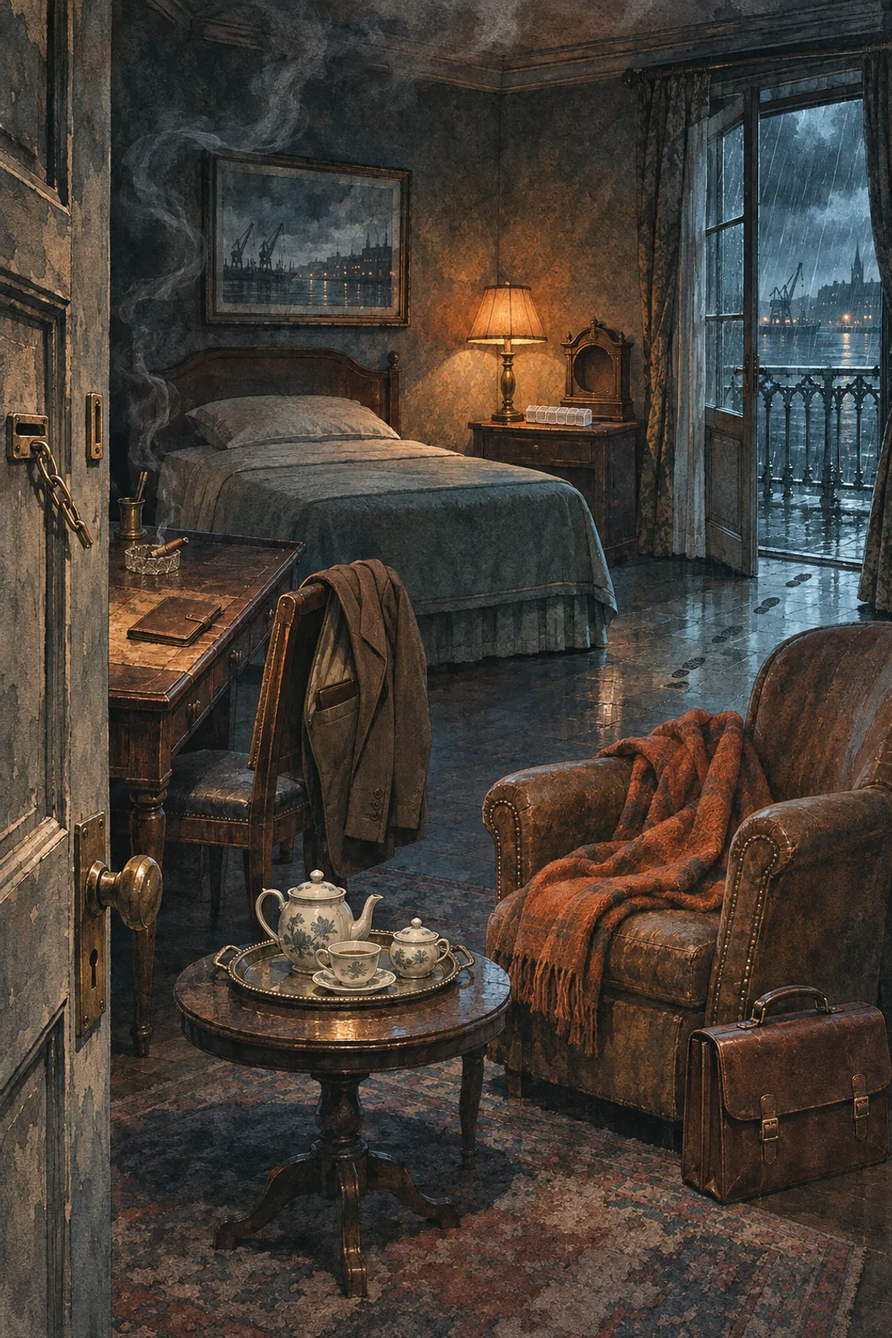
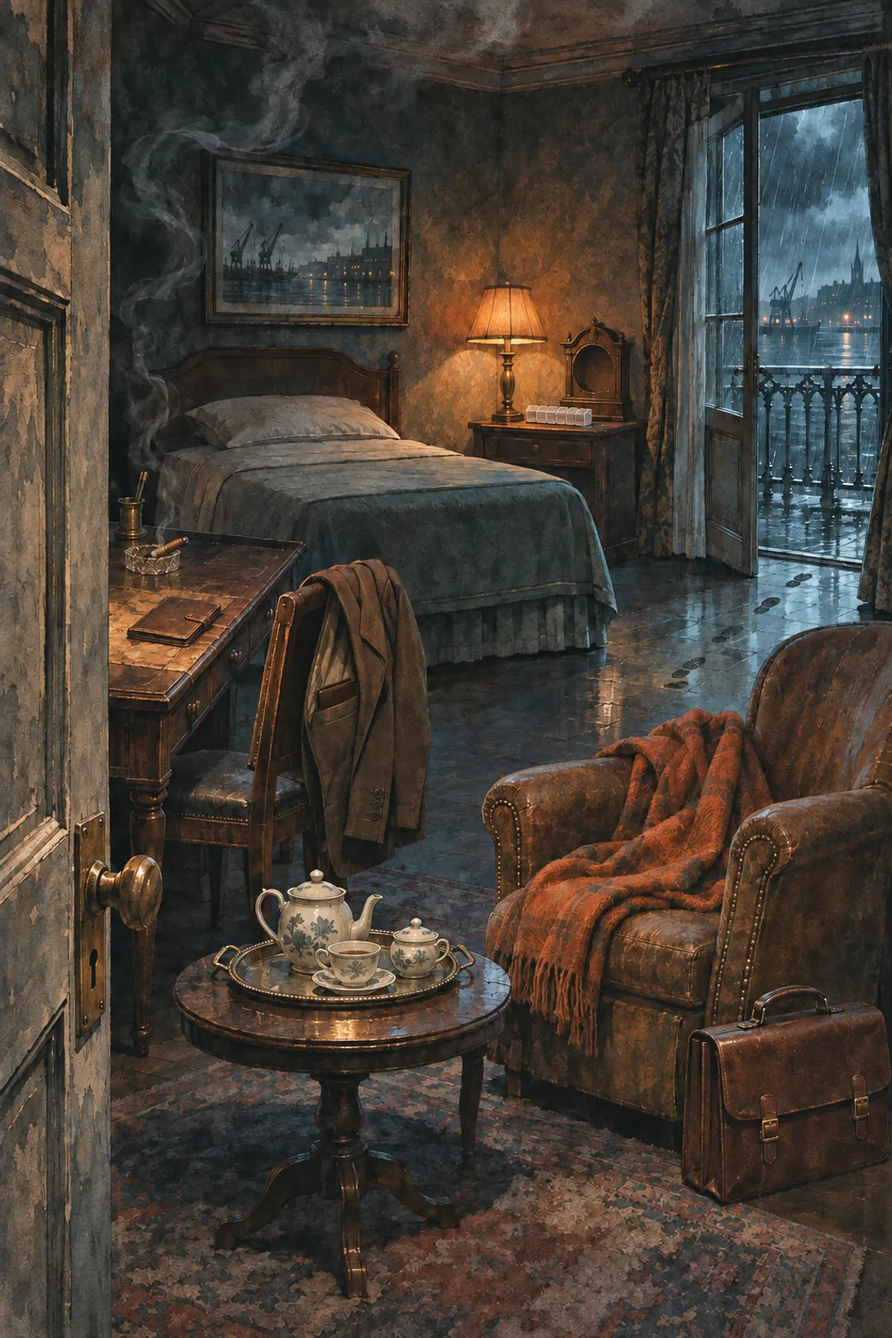
Correct room-seven door artwork and hardware height

diff --git a/art/ASSETS.md b/art/ASSETS.md
@@ -102,75 +102,75 @@
 
 Полный план до генерации: **68 оригиналов**. Источник канона — `docs/cases/case-002-room-seven.md`. Точные STYLE_CORE-промпты и референсы: [case-002-room-seven/prompts.json](case-002-room-seven/prompts.json). Порядок: локации → крупные планы → предметы/портфель/детали → портреты (neutral → отдельные правки эмоций) → реконструкция и обложка. Текста на картинках нет. Надежда в сером кардигане, нитка серая; кресло пустое, только сползший плед. Оригиналы PNG — Git LFS. Музыка общая, голос не генерируется.
 
-| Игровой файл                                  | Тип            | Размер    | Оригинал PNG                                          | Промпт / ключ            | Статус                                                                   |
-| --------------------------------------------- | -------------- | --------- | ----------------------------------------------------- | ------------------------ | ------------------------------------------------------------------------ |
-| `images/locations/l-lobby.webp`               | location       | 1080×1620 | [PNG](case-002-room-seven/l-lobby.png)                | `l-lobby`                | сгенерировано                                                            |
-| `images/locations/l-room7.webp`               | location       | 1080×1620 | [PNG](case-002-room-seven/l-room7.png)                | `l-room7`                | заглушка (переделать: убрать цепочку с двери, композиция та же)          |
-| `images/locations/l-corridor.webp`            | location       | 1080×1620 | [PNG](case-002-room-seven/l-corridor.png)             | `l-corridor`             | сгенерировано                                                            |
-| `images/closeups/h-register.webp`             | closeup        | 1024×1024 | [PNG](case-002-room-seven/h-register.png)             | `h-register`             | сгенерировано                                                            |
-| `images/closeups/h-phone.webp`                | closeup        | 1024×1024 | [PNG](case-002-room-seven/h-phone.png)                | `h-phone`                | сгенерировано                                                            |
-| `images/closeups/h-coat-rack.webp`            | closeup        | 1024×1024 | [PNG](case-002-room-seven/h-coat-rack.png)            | `h-coat-rack`            | сгенерировано                                                            |
-| `images/closeups/h-keeper-photo.webp`         | closeup        | 1024×1024 | [PNG](case-002-room-seven/h-keeper-photo.png)         | `h-keeper-photo`         | сгенерировано                                                            |
-| `images/closeups/h-armchair.webp`             | closeup        | 1024×1024 | [PNG](case-002-room-seven/h-armchair.png)             | `h-armchair`             | сгенерировано                                                            |
-| `images/closeups/h-fireplace.webp`            | closeup        | 1024×1024 | [PNG](case-002-room-seven/h-fireplace.png)            | `h-fireplace`            | сгенерировано                                                            |
-| `images/closeups/h-door-chain.webp`           | closeup        | 1024×1024 | [PNG](case-002-room-seven/h-door-chain.png)           | `h-door-chain`           | заглушка (переделать: выбитая дверь, задвижка изнутри вырвана из косяка) |
-| `images/closeups/h-tea-tray.webp`             | closeup        | 1024×1024 | [PNG](case-002-room-seven/h-tea-tray.png)             | `h-tea-tray`             | сгенерировано                                                            |
-| `images/closeups/h-nightstand.webp`           | closeup        | 1024×1024 | [PNG](case-002-room-seven/h-nightstand.png)           | `h-nightstand`           | сгенерировано                                                            |
-| `images/closeups/h-desk.webp`                 | closeup        | 1024×1024 | [PNG](case-002-room-seven/h-desk.png)                 | `h-desk`                 | сгенерировано                                                            |
-| `images/closeups/h-jacket.webp`               | closeup        | 1024×1024 | [PNG](case-002-room-seven/h-jacket.png)               | `h-jacket`               | сгенерировано                                                            |
-| `images/closeups/h-portfel.webp`              | closeup        | 1024×1024 | [PNG](case-002-room-seven/h-portfel.png)              | `h-portfel`              | сгенерировано                                                            |
-| `images/closeups/h-balcony-door.webp`         | closeup        | 1024×1024 | [PNG](case-002-room-seven/h-balcony-door.png)         | `h-balcony-door`         | сгенерировано                                                            |
-| `images/closeups/h-partition.webp`            | closeup        | 1024×1024 | [PNG](case-002-room-seven/h-partition.png)            | `h-partition`            | сгенерировано                                                            |
-| `images/closeups/h-linen-cart.webp`           | closeup        | 1024×1024 | [PNG](case-002-room-seven/h-linen-cart.png)           | `h-linen-cart`           | сгенерировано                                                            |
-| `images/closeups/h-bin.webp`                  | closeup        | 1024×1024 | [PNG](case-002-room-seven/h-bin.png)                  | `h-bin`                  | сгенерировано                                                            |
-| `images/closeups/h-window.webp`               | closeup        | 1024×1024 | [PNG](case-002-room-seven/h-window.png)               | `h-window`               | сгенерировано                                                            |
-| `images/closeups/h-door8.webp`                | closeup        | 1024×1024 | [PNG](case-002-room-seven/h-door8.png)                | `h-door8`                | сгенерировано                                                            |
-| `images/clues/c-teacup.webp`                  | clue           | 512×512   | [PNG](case-002-room-seven/c-teacup.png)               | `c-teacup`               | сгенерировано                                                            |
-| `images/clues/c-empty-case.webp`              | clue           | 512×512   | [PNG](case-002-room-seven/c-empty-case.png)           | `c-empty-case`           | сгенерировано                                                            |
-| `images/clues/c-notebook.webp`                | clue           | 512×512   | [PNG](case-002-room-seven/c-notebook.png)             | `c-notebook`             | сгенерировано                                                            |
-| `images/clues/c-wallet.webp`                  | clue           | 512×512   | [PNG](case-002-room-seven/c-wallet.png)               | `c-wallet`               | сгенерировано                                                            |
-| `images/clues/c-wet-jacket.webp`              | clue           | 512×512   | [PNG](case-002-room-seven/c-wet-jacket.png)           | `c-wet-jacket`           | сгенерировано                                                            |
-| `images/clues/c-camera.webp`                  | clue           | 512×512   | [PNG](case-002-room-seven/c-camera.png)               | `c-camera`               | сгенерировано                                                            |
-| `images/clues/c-ampoule.webp`                 | clue           | 512×512   | [PNG](case-002-room-seven/c-ampoule.png)              | `c-ampoule`              | сгенерировано                                                            |
-| `images/clues/c-chronometer.webp`             | clue           | 512×512   | [PNG](case-002-room-seven/c-chronometer.png)          | `c-chronometer`          | сгенерировано                                                            |
-| `images/clues/c-partition.webp`               | clue           | 512×512   | [PNG](case-002-room-seven/c-partition.png)            | `c-partition`            | сгенерировано                                                            |
-| `images/closeups/portfel-open.webp`           | container      | 1024×1024 | [PNG](case-002-room-seven/portfel-open.png)           | `portfel-open`           | сгенерировано                                                            |
-| `images/closeups/teacup-inspection.webp`      | inspection     | 1024×1024 | [PNG](case-002-room-seven/teacup-inspection.png)      | `teacup-inspection`      | сгенерировано                                                            |
-| `images/closeups/partition-inspection.webp`   | inspection     | 1024×1024 | [PNG](case-002-room-seven/partition-inspection.png)   | `partition-inspection`   | сгенерировано                                                            |
-| `images/closeups/chronometer-inspection.webp` | inspection     | 1024×1024 | [PNG](case-002-room-seven/chronometer-inspection.png) | `chronometer-inspection` | сгенерировано                                                            |
-| `troupe/a14-boris/neutral.webp`               | portrait       | 768×1152  | [PNG](case-002-room-seven/a14-boris-neutral.png)      | `a14-boris-neutral`      | сгенерировано                                                            |
-| `troupe/a14-boris/nervous.webp`               | portrait       | 768×1152  | [PNG](case-002-room-seven/a14-boris-nervous.png)      | `a14-boris-nervous`      | сгенерировано                                                            |
-| `troupe/a14-boris/angry.webp`                 | portrait       | 768×1152  | [PNG](case-002-room-seven/a14-boris-angry.png)        | `a14-boris-angry`        | сгенерировано                                                            |
-| `troupe/a14-boris/sad.webp`                   | portrait       | 768×1152  | [PNG](case-002-room-seven/a14-boris-sad.png)          | `a14-boris-sad`          | сгенерировано                                                            |
-| `troupe/a14-boris/smug.webp`                  | portrait       | 768×1152  | [PNG](case-002-room-seven/a14-boris-smug.png)         | `a14-boris-smug`         | сгенерировано                                                            |
-| `troupe/a14-boris/broken.webp`                | portrait       | 768×1152  | [PNG](case-002-room-seven/a14-boris-broken.png)       | `a14-boris-broken`       | сгенерировано                                                            |
-| `troupe/a11-zoya/neutral.webp`                | portrait       | 768×1152  | [PNG](case-002-room-seven/a11-zoya-neutral.png)       | `a11-zoya-neutral`       | сгенерировано                                                            |
-| `troupe/a11-zoya/nervous.webp`                | portrait       | 768×1152  | [PNG](case-002-room-seven/a11-zoya-nervous.png)       | `a11-zoya-nervous`       | сгенерировано                                                            |
-| `troupe/a11-zoya/angry.webp`                  | portrait       | 768×1152  | [PNG](case-002-room-seven/a11-zoya-angry.png)         | `a11-zoya-angry`         | сгенерировано                                                            |
-| `troupe/a11-zoya/sad.webp`                    | portrait       | 768×1152  | [PNG](case-002-room-seven/a11-zoya-sad.png)           | `a11-zoya-sad`           | сгенерировано                                                            |
-| `troupe/a11-zoya/smug.webp`                   | portrait       | 768×1152  | [PNG](case-002-room-seven/a11-zoya-smug.png)          | `a11-zoya-smug`          | сгенерировано                                                            |
-| `troupe/a11-zoya/broken.webp`                 | portrait       | 768×1152  | [PNG](case-002-room-seven/a11-zoya-broken.png)        | `a11-zoya-broken`        | сгенерировано                                                            |
-| `troupe/a08-ruslan/neutral.webp`              | portrait       | 768×1152  | [PNG](case-002-room-seven/a08-ruslan-neutral.png)     | `a08-ruslan-neutral`     | сгенерировано                                                            |
-| `troupe/a08-ruslan/nervous.webp`              | portrait       | 768×1152  | [PNG](case-002-room-seven/a08-ruslan-nervous.png)     | `a08-ruslan-nervous`     | сгенерировано                                                            |
-| `troupe/a08-ruslan/angry.webp`                | portrait       | 768×1152  | [PNG](case-002-room-seven/a08-ruslan-angry.png)       | `a08-ruslan-angry`       | сгенерировано                                                            |
-| `troupe/a08-ruslan/sad.webp`                  | portrait       | 768×1152  | [PNG](case-002-room-seven/a08-ruslan-sad.png)         | `a08-ruslan-sad`         | сгенерировано                                                            |
-| `troupe/a08-ruslan/smug.webp`                 | portrait       | 768×1152  | [PNG](case-002-room-seven/a08-ruslan-smug.png)        | `a08-ruslan-smug`        | сгенерировано                                                            |
-| `troupe/a08-ruslan/broken.webp`               | portrait       | 768×1152  | [PNG](case-002-room-seven/a08-ruslan-broken.png)      | `a08-ruslan-broken`      | сгенерировано                                                            |
-| `troupe/a13-nadia/neutral.webp`               | portrait       | 768×1152  | [PNG](case-002-room-seven/a13-nadia-neutral.png)      | `a13-nadia-neutral`      | сгенерировано                                                            |
-| `troupe/a13-nadia/nervous.webp`               | portrait       | 768×1152  | [PNG](case-002-room-seven/a13-nadia-nervous.png)      | `a13-nadia-nervous`      | сгенерировано                                                            |
-| `troupe/a13-nadia/angry.webp`                 | portrait       | 768×1152  | [PNG](case-002-room-seven/a13-nadia-angry.png)        | `a13-nadia-angry`        | сгенерировано                                                            |
-| `troupe/a13-nadia/sad.webp`                   | portrait       | 768×1152  | [PNG](case-002-room-seven/a13-nadia-sad.png)          | `a13-nadia-sad`          | сгенерировано                                                            |
-| `troupe/a13-nadia/smug.webp`                  | portrait       | 768×1152  | [PNG](case-002-room-seven/a13-nadia-smug.png)         | `a13-nadia-smug`         | сгенерировано                                                            |
-| `troupe/a13-nadia/broken.webp`                | portrait       | 768×1152  | [PNG](case-002-room-seven/a13-nadia-broken.png)       | `a13-nadia-broken`       | сгенерировано                                                            |
-| `troupe/a12-dmitry/neutral.webp`              | portrait       | 768×1152  | [PNG](case-002-room-seven/a12-dmitry-neutral.png)     | `a12-dmitry-neutral`     | сгенерировано                                                            |
-| `troupe/a12-dmitry/nervous.webp`              | portrait       | 768×1152  | [PNG](case-002-room-seven/a12-dmitry-nervous.png)     | `a12-dmitry-nervous`     | сгенерировано                                                            |
-| `troupe/a12-dmitry/angry.webp`                | portrait       | 768×1152  | [PNG](case-002-room-seven/a12-dmitry-angry.png)       | `a12-dmitry-angry`       | сгенерировано                                                            |
-| `troupe/a12-dmitry/sad.webp`                  | portrait       | 768×1152  | [PNG](case-002-room-seven/a12-dmitry-sad.png)         | `a12-dmitry-sad`         | сгенерировано                                                            |
-| `troupe/a12-dmitry/smug.webp`                 | portrait       | 768×1152  | [PNG](case-002-room-seven/a12-dmitry-smug.png)        | `a12-dmitry-smug`        | сгенерировано                                                            |
-| `troupe/a12-dmitry/broken.webp`               | portrait       | 768×1152  | [PNG](case-002-room-seven/a12-dmitry-broken.png)      | `a12-dmitry-broken`      | сгенерировано                                                            |
-| `images/reconstruction/1.webp`                | reconstruction | 1200×800  | [PNG](case-002-room-seven/reconstruction-1.png)       | `reconstruction-1`       | сгенерировано                                                            |
-| `images/reconstruction/2.webp`                | reconstruction | 1200×800  | [PNG](case-002-room-seven/reconstruction-2.png)       | `reconstruction-2`       | сгенерировано                                                            |
-| `images/reconstruction/3.webp`                | reconstruction | 1200×800  | [PNG](case-002-room-seven/reconstruction-3.png)       | `reconstruction-3`       | сгенерировано                                                            |
-| `images/cover.webp`                           | cover          | 720×1080  | [PNG](case-002-room-seven/cover.png)                  | `cover`                  | сгенерировано                                                            |
+| Игровой файл                                  | Тип            | Размер    | Оригинал PNG                                          | Промпт / ключ            | Статус        |
+| --------------------------------------------- | -------------- | --------- | ----------------------------------------------------- | ------------------------ | ------------- |
+| `images/locations/l-lobby.webp`               | location       | 1080×1620 | [PNG](case-002-room-seven/l-lobby.png)                | `l-lobby`                | сгенерировано |
+| `images/locations/l-room7.webp`               | location       | 1080×1620 | [PNG](case-002-room-seven/l-room7.png)                | `l-room7`                | сгенерировано |
+| `images/locations/l-corridor.webp`            | location       | 1080×1620 | [PNG](case-002-room-seven/l-corridor.png)             | `l-corridor`             | сгенерировано |
+| `images/closeups/h-register.webp`             | closeup        | 1024×1024 | [PNG](case-002-room-seven/h-register.png)             | `h-register`             | сгенерировано |
+| `images/closeups/h-phone.webp`                | closeup        | 1024×1024 | [PNG](case-002-room-seven/h-phone.png)                | `h-phone`                | сгенерировано |
+| `images/closeups/h-coat-rack.webp`            | closeup        | 1024×1024 | [PNG](case-002-room-seven/h-coat-rack.png)            | `h-coat-rack`            | сгенерировано |
+| `images/closeups/h-keeper-photo.webp`         | closeup        | 1024×1024 | [PNG](case-002-room-seven/h-keeper-photo.png)         | `h-keeper-photo`         | сгенерировано |
+| `images/closeups/h-armchair.webp`             | closeup        | 1024×1024 | [PNG](case-002-room-seven/h-armchair.png)             | `h-armchair`             | сгенерировано |
+| `images/closeups/h-fireplace.webp`            | closeup        | 1024×1024 | [PNG](case-002-room-seven/h-fireplace.png)            | `h-fireplace`            | сгенерировано |
+| `images/closeups/h-door-chain.webp`           | closeup        | 1024×1024 | [PNG](case-002-room-seven/h-door-chain.png)           | `h-door-chain`           | сгенерировано |
+| `images/closeups/h-tea-tray.webp`             | closeup        | 1024×1024 | [PNG](case-002-room-seven/h-tea-tray.png)             | `h-tea-tray`             | сгенерировано |
+| `images/closeups/h-nightstand.webp`           | closeup        | 1024×1024 | [PNG](case-002-room-seven/h-nightstand.png)           | `h-nightstand`           | сгенерировано |
+| `images/closeups/h-desk.webp`                 | closeup        | 1024×1024 | [PNG](case-002-room-seven/h-desk.png)                 | `h-desk`                 | сгенерировано |
+| `images/closeups/h-jacket.webp`               | closeup        | 1024×1024 | [PNG](case-002-room-seven/h-jacket.png)               | `h-jacket`               | сгенерировано |
+| `images/closeups/h-portfel.webp`              | closeup        | 1024×1024 | [PNG](case-002-room-seven/h-portfel.png)              | `h-portfel`              | сгенерировано |
+| `images/closeups/h-balcony-door.webp`         | closeup        | 1024×1024 | [PNG](case-002-room-seven/h-balcony-door.png)         | `h-balcony-door`         | сгенерировано |
+| `images/closeups/h-partition.webp`            | closeup        | 1024×1024 | [PNG](case-002-room-seven/h-partition.png)            | `h-partition`            | сгенерировано |
+| `images/closeups/h-linen-cart.webp`           | closeup        | 1024×1024 | [PNG](case-002-room-seven/h-linen-cart.png)           | `h-linen-cart`           | сгенерировано |
+| `images/closeups/h-bin.webp`                  | closeup        | 1024×1024 | [PNG](case-002-room-seven/h-bin.png)                  | `h-bin`                  | сгенерировано |
+| `images/closeups/h-window.webp`               | closeup        | 1024×1024 | [PNG](case-002-room-seven/h-window.png)               | `h-window`               | сгенерировано |
+| `images/closeups/h-door8.webp`                | closeup        | 1024×1024 | [PNG](case-002-room-seven/h-door8.png)                | `h-door8`                | сгенерировано |
+| `images/clues/c-teacup.webp`                  | clue           | 512×512   | [PNG](case-002-room-seven/c-teacup.png)               | `c-teacup`               | сгенерировано |
+| `images/clues/c-empty-case.webp`              | clue           | 512×512   | [PNG](case-002-room-seven/c-empty-case.png)           | `c-empty-case`           | сгенерировано |
+| `images/clues/c-notebook.webp`                | clue           | 512×512   | [PNG](case-002-room-seven/c-notebook.png)             | `c-notebook`             | сгенерировано |
+| `images/clues/c-wallet.webp`                  | clue           | 512×512   | [PNG](case-002-room-seven/c-wallet.png)               | `c-wallet`               | сгенерировано |
+| `images/clues/c-wet-jacket.webp`              | clue           | 512×512   | [PNG](case-002-room-seven/c-wet-jacket.png)           | `c-wet-jacket`           | сгенерировано |
+| `images/clues/c-camera.webp`                  | clue           | 512×512   | [PNG](case-002-room-seven/c-camera.png)               | `c-camera`               | сгенерировано |
+| `images/clues/c-ampoule.webp`                 | clue           | 512×512   | [PNG](case-002-room-seven/c-ampoule.png)              | `c-ampoule`              | сгенерировано |
+| `images/clues/c-chronometer.webp`             | clue           | 512×512   | [PNG](case-002-room-seven/c-chronometer.png)          | `c-chronometer`          | сгенерировано |
+| `images/clues/c-partition.webp`               | clue           | 512×512   | [PNG](case-002-room-seven/c-partition.png)            | `c-partition`            | сгенерировано |
+| `images/closeups/portfel-open.webp`           | container      | 1024×1024 | [PNG](case-002-room-seven/portfel-open.png)           | `portfel-open`           | сгенерировано |
+| `images/closeups/teacup-inspection.webp`      | inspection     | 1024×1024 | [PNG](case-002-room-seven/teacup-inspection.png)      | `teacup-inspection`      | сгенерировано |
+| `images/closeups/partition-inspection.webp`   | inspection     | 1024×1024 | [PNG](case-002-room-seven/partition-inspection.png)   | `partition-inspection`   | сгенерировано |
+| `images/closeups/chronometer-inspection.webp` | inspection     | 1024×1024 | [PNG](case-002-room-seven/chronometer-inspection.png) | `chronometer-inspection` | сгенерировано |
+| `troupe/a14-boris/neutral.webp`               | portrait       | 768×1152  | [PNG](case-002-room-seven/a14-boris-neutral.png)      | `a14-boris-neutral`      | сгенерировано |
+| `troupe/a14-boris/nervous.webp`               | portrait       | 768×1152  | [PNG](case-002-room-seven/a14-boris-nervous.png)      | `a14-boris-nervous`      | сгенерировано |
+| `troupe/a14-boris/angry.webp`                 | portrait       | 768×1152  | [PNG](case-002-room-seven/a14-boris-angry.png)        | `a14-boris-angry`        | сгенерировано |
+| `troupe/a14-boris/sad.webp`                   | portrait       | 768×1152  | [PNG](case-002-room-seven/a14-boris-sad.png)          | `a14-boris-sad`          | сгенерировано |
+| `troupe/a14-boris/smug.webp`                  | portrait       | 768×1152  | [PNG](case-002-room-seven/a14-boris-smug.png)         | `a14-boris-smug`         | сгенерировано |
+| `troupe/a14-boris/broken.webp`                | portrait       | 768×1152  | [PNG](case-002-room-seven/a14-boris-broken.png)       | `a14-boris-broken`       | сгенерировано |
+| `troupe/a11-zoya/neutral.webp`                | portrait       | 768×1152  | [PNG](case-002-room-seven/a11-zoya-neutral.png)       | `a11-zoya-neutral`       | сгенерировано |
+| `troupe/a11-zoya/nervous.webp`                | portrait       | 768×1152  | [PNG](case-002-room-seven/a11-zoya-nervous.png)       | `a11-zoya-nervous`       | сгенерировано |
+| `troupe/a11-zoya/angry.webp`                  | portrait       | 768×1152  | [PNG](case-002-room-seven/a11-zoya-angry.png)         | `a11-zoya-angry`         | сгенерировано |
+| `troupe/a11-zoya/sad.webp`                    | portrait       | 768×1152  | [PNG](case-002-room-seven/a11-zoya-sad.png)           | `a11-zoya-sad`           | сгенерировано |
+| `troupe/a11-zoya/smug.webp`                   | portrait       | 768×1152  | [PNG](case-002-room-seven/a11-zoya-smug.png)          | `a11-zoya-smug`          | сгенерировано |
+| `troupe/a11-zoya/broken.webp`                 | portrait       | 768×1152  | [PNG](case-002-room-seven/a11-zoya-broken.png)        | `a11-zoya-broken`        | сгенерировано |
+| `troupe/a08-ruslan/neutral.webp`              | portrait       | 768×1152  | [PNG](case-002-room-seven/a08-ruslan-neutral.png)     | `a08-ruslan-neutral`     | сгенерировано |
+| `troupe/a08-ruslan/nervous.webp`              | portrait       | 768×1152  | [PNG](case-002-room-seven/a08-ruslan-nervous.png)     | `a08-ruslan-nervous`     | сгенерировано |
+| `troupe/a08-ruslan/angry.webp`                | portrait       | 768×1152  | [PNG](case-002-room-seven/a08-ruslan-angry.png)       | `a08-ruslan-angry`       | сгенерировано |
+| `troupe/a08-ruslan/sad.webp`                  | portrait       | 768×1152  | [PNG](case-002-room-seven/a08-ruslan-sad.png)         | `a08-ruslan-sad`         | сгенерировано |
+| `troupe/a08-ruslan/smug.webp`                 | portrait       | 768×1152  | [PNG](case-002-room-seven/a08-ruslan-smug.png)        | `a08-ruslan-smug`        | сгенерировано |
+| `troupe/a08-ruslan/broken.webp`               | portrait       | 768×1152  | [PNG](case-002-room-seven/a08-ruslan-broken.png)      | `a08-ruslan-broken`      | сгенерировано |
+| `troupe/a13-nadia/neutral.webp`               | portrait       | 768×1152  | [PNG](case-002-room-seven/a13-nadia-neutral.png)      | `a13-nadia-neutral`      | сгенерировано |
+| `troupe/a13-nadia/nervous.webp`               | portrait       | 768×1152  | [PNG](case-002-room-seven/a13-nadia-nervous.png)      | `a13-nadia-nervous`      | сгенерировано |
+| `troupe/a13-nadia/angry.webp`                 | portrait       | 768×1152  | [PNG](case-002-room-seven/a13-nadia-angry.png)        | `a13-nadia-angry`        | сгенерировано |
+| `troupe/a13-nadia/sad.webp`                   | portrait       | 768×1152  | [PNG](case-002-room-seven/a13-nadia-sad.png)          | `a13-nadia-sad`          | сгенерировано |
+| `troupe/a13-nadia/smug.webp`                  | portrait       | 768×1152  | [PNG](case-002-room-seven/a13-nadia-smug.png)         | `a13-nadia-smug`         | сгенерировано |
+| `troupe/a13-nadia/broken.webp`                | portrait       | 768×1152  | [PNG](case-002-room-seven/a13-nadia-broken.png)       | `a13-nadia-broken`       | сгенерировано |
+| `troupe/a12-dmitry/neutral.webp`              | portrait       | 768×1152  | [PNG](case-002-room-seven/a12-dmitry-neutral.png)     | `a12-dmitry-neutral`     | сгенерировано |
+| `troupe/a12-dmitry/nervous.webp`              | portrait       | 768×1152  | [PNG](case-002-room-seven/a12-dmitry-nervous.png)     | `a12-dmitry-nervous`     | сгенерировано |
+| `troupe/a12-dmitry/angry.webp`                | portrait       | 768×1152  | [PNG](case-002-room-seven/a12-dmitry-angry.png)       | `a12-dmitry-angry`       | сгенерировано |
+| `troupe/a12-dmitry/sad.webp`                  | portrait       | 768×1152  | [PNG](case-002-room-seven/a12-dmitry-sad.png)         | `a12-dmitry-sad`         | сгенерировано |
+| `troupe/a12-dmitry/smug.webp`                 | portrait       | 768×1152  | [PNG](case-002-room-seven/a12-dmitry-smug.png)        | `a12-dmitry-smug`        | сгенерировано |
+| `troupe/a12-dmitry/broken.webp`               | portrait       | 768×1152  | [PNG](case-002-room-seven/a12-dmitry-broken.png)      | `a12-dmitry-broken`      | сгенерировано |
+| `images/reconstruction/1.webp`                | reconstruction | 1200×800  | [PNG](case-002-room-seven/reconstruction-1.png)       | `reconstruction-1`       | сгенерировано |
+| `images/reconstruction/2.webp`                | reconstruction | 1200×800  | [PNG](case-002-room-seven/reconstruction-2.png)       | `reconstruction-2`       | сгенерировано |
+| `images/reconstruction/3.webp`                | reconstruction | 1200×800  | [PNG](case-002-room-seven/reconstruction-3.png)       | `reconstruction-3`       | сгенерировано |
+| `images/cover.webp`                           | cover          | 720×1080  | [PNG](case-002-room-seven/cover.png)                  | `cover`                  | сгенерировано |
 
 Контакт-листы: [локации](../docs/devlog/assets/room-seven/locations.jpg), [крупные планы](../docs/devlog/assets/room-seven/closeups.jpg), [предметы и детали](../docs/devlog/assets/room-seven/items.jpg), [мастера](../docs/devlog/assets/room-seven/masters.jpg), [30 портретов](../docs/devlog/assets/room-seven/portraits.jpg), [реконструкция и обложка](../docs/devlog/assets/room-seven/ending.jpg). Все 68 оригиналов сгенерированы; заглушек нет.

diff --git a/docs/devlog/2026-11-13-16-room-seven-door-art.md b/docs/devlog/2026-11-13-16-room-seven-door-art.md
@@ -1,0 +1,43 @@
+# 2026-11-13-16 — Дверь номера 7: две картинки по физике вещей
+
+**Этап:** M3 / арт · **Ветка:** art/room-seven-door от свежего main 4358dc2. Версия остаётся 0.4.5 / code 15.
+
+## Цель
+
+Исправить два изображения по разделу v3 библии и чек-листу «Физика вещей», сохранив код, case.json и существующие зоны предметов.
+
+## Что сделано и файлы
+
+- `art/case-002-room-seven/l-room7.png` — локальная правка исходного кадра: удалены цепочка и её верхние крепления слева. Обычный замок сохранён. Ракурс, мебель, свет, поднос, тумбочка, стол, пиджак, портфель и балконная дверь остаются на месте. Тела нет, в кресле только плед.
+- `art/case-002-room-seven/h-door-chain.png` — новый крупный план ИЗНУТРИ номера: дверь выбита снаружи, ответная часть задвижки вырвана из косяка с шурупами, косяк расщеплён, на полу щепки. Цепочки и текста нет. По уточнению владельца ручка, задвижка и соответствующий повреждённый участок косяка подняты; после первой правки владелец попросил ещё примерно 30% вверх. Масштаб фурнитуры относительно полноразмерной двери исправлен. Пол и порог остаются внизу.
+- Manifest и prompts — размеры, выбранные оригиналы, точные промпты и референсы. PNG — Git LFS; WebP готовятся штатным build-pack.
+- ASSETS — обе строки «сгенерировано». Контакт-лист «было/стало» — docs/devlog/assets/room-seven-door/.
+- STATUS, CHANGELOG, MT-029 и INDEX — состояние, отчёт и проверка владельцу. Код и оба case.json не меняются; новых тестов нет.
+
+## Сохранение разметки
+
+На шести контрольных фрагментах общего плана выполнено сопоставление с исходником при нормализованном размере 1024×1536: стол, пиджак, поднос, тумбочка, портфель, балконная дверь. Окно 84×84, поиск ±16 px: лучший сдвиг **dx=0, dy=0** для всех шести, корреляция 0,8106–0,9352. Это проверка положения предметов, не заявление о полном побайтовом совпадении картинки. Существующие rect остаются прежними.
+
+## Команды и тесты
+
+`git pull --ff-only origin main`, новая ветка, `git lfs install`. `npx tsx tools/build-pack.ts --art-only --case case-002-room-seven` — готовы WebP 1080×1620 и 1024×1024; остальные изображения не изменились. Lint, typecheck, **142 unit** (20 файлов), валидатор обоих дел и LFS (**164 исходника**) прошли. `npm run e2e -- --workers=2` — **126/126 за 4,0 мин**, без повторов, на 360×800 и 412×915. Все иллюстрации декодируются в правильном размере. `npm run android:sync` — production build, verify:production и cap sync android успешно. `git diff` подтверждает отсутствие изменений в src и обоих case.json. APK/Gradle и генерация аудио не запускались.
+
+## Контакт-лист
+
+[Было/стало](assets/room-seven-door/before-after.jpg): две строки — общий план и крупный план. Включена окончательная правка высоты по замечанию владельца.
+
+## Проблемы и решения
+
+Первые варианты крупного плана показывали фурнитуру слишком низко. По двум уточнениям владельца подняты ручка, задвижка и повреждение косяка; второе — ещё примерно на 30%. Исправлен и относительный масштаб ручки, чтобы полноразмерная дверь не казалась низкой. Промежуточные варианты в git не включаются. Для общего плана использована только небольшая правка исходного кадра, положение шести остальных зон проверено отдельно. Историческое имя h-door-chain сохраняется по библии.
+
+## Отклонения от плана
+
+Нет. Только две картинки и сопутствующие метаданные/документация; сценарий и разметка не меняются. Физика задвижки: внутренняя фурнитура, вырванная ответная часть и шурупы, повреждённая древесина, следы удара снаружи.
+
+## Как проверить владельцу
+
+MT-029 уже содержит нужную проверку: «Номер семь» → Обыск → Номер 7. Цепочки на общем плане нет, зоны предметов нажимаются на прежних местах. Открыть дверь: внутренний крупный план повреждённой задвижки, ручка на взрослой высоте, щепки внизу. Проверить офлайн. Команды обновления ветки для Android Studio будут в PR; обычная сборка — по HOWTO. APK собирает владелец.
+
+## Следующий шаг
+
+Один PR с двумя ассетами на ревью, затем MT-029 на телефоне.

diff --git a/docs/STATUS.md b/docs/STATUS.md
@@ -28,7 +28,7 @@ M0 принят. M1/M2 реализованы; прежние MT и реальн
 
 ## Проверки
 
-lint, typecheck, unit (все), валидатор обоих дел, LFS, build, verify:production, cap sync android и e2e на 360×800/412×915 — зелёные локально. Реальный ИИ и Gradle не запускались.
+Для двух ассетов двери: lint, typecheck, 142 unit, валидатор обоих дел, LFS (164 исходника), build, verify:production, cap sync android и 126 e2e на 360×800/412×915 — зелёные локально. Код и оба case.json прежние. Контакт-лист «было/стало»: docs/devlog/assets/room-seven-door/before-after.jpg. Реальный ИИ, APK и Gradle не запускались.
 
 ## Очередь владельца и ограничения
 
@@ -40,6 +40,6 @@ lint, typecheck, unit (все), валидатор обоих дел, LFS, build
 
 ## Следующий шаг
 
-- **Агент:** перерисовать для «Номера семь» картинку номера 7 без цепочки (композиция та же) и крупный план выбитой двери; затем ассеты «Холодной камеры» по библии.
+- **Агент:** ревью ассетов art/room-seven-door: номер 7 без цепочки с сохранением разметки и новый крупный план внутренней задвижки; высота фурнитуры исправлена по замечаниям владельца. Следующее отдельное задание — ассеты «Холодной камеры» по библии.
 - **Порядок дела № 3** (CASE-RUNBOOK): ассеты агента → ревью планировщика по чек-листу и физике вещей → просмотр владельцем глазами → сборка `case.json`, зон, тестов и озвучки планировщиком.
 - **Владелец:** собрать 0.4.5, пройти MT-025…MT-029; плейтесты с компаниями.

diff --git a/docs/MANUAL-TEST-QUEUE.md b/docs/MANUAL-TEST-QUEUE.md
@@ -323,9 +323,9 @@ MT-012: сначала только проверить на телефоне, у
 
 ## MT-029 — «Номер семь» без цепочки (0.4.5 / code 15)
 
-**Статус:** ⏳ ожидает владельца (полностью — после перерисовки картинок агентом).
+**Статус:** ⏳ ожидает владельца. Обе картинки перерисованы в art/room-seven-door; высота фурнитуры исправлена по замечанию владельца.
 
 1. Брифинг: «дверь заперта изнутри на задвижку… когда портье выбил дверь». Озвучка совпадает с текстом.
-2. Номер 7: зона «Выбитая дверь» — «задвижка изнутри вырвана из косяка, на полу щепки». После перерисовки: на картинке номера цепочки нет, крупный план показывает вырванную задвижку.
+2. Номер 7: зона «Выбитая дверь» — «задвижка изнутри вырвана из косяка, на полу щепки». На картинке номера цепочки нет, крупный план показывает вырванную задвижку изнутри; ручка и повреждение косяка на взрослой высоте. Остальные зоны номера совпадают с предметами.
 3. Первая подсказка Шефа: «Дверь была заперта изнутри…» — звучит новым текстом.
 4. Финал: «Дверь осталась запертой изнутри — в номер вошли с балкона…» — озвучка совпадает.

diff --git a/docs/devlog/INDEX.md b/docs/devlog/INDEX.md
@@ -68,3 +68,4 @@
 | 2026-11-13 | 13  | [«Номер семь» на цепочке](2026-11-13-13-room-seven-chain.md)                                 | M3                   | Мотив · возможность · признание Надежды; мутный след на Зою без новых предметов; правило «без совпадений-близнецов»; озвучка 9 дорожек                    |
 | 2026-11-13 | 14  | [Финал без спойлера, концепции дела № 3](2026-11-13-14-finale-no-spoiler.md)                 | M4 / дело № 3        | «Показать разгадку? Да / Нет, сыграть ещё»; три концепции третьего дела с рекомендацией                                                                   |
 | 2026-11-13 | 15  | [Физика вещей](2026-11-13-15-physics-of-things.md)                                           | M3                   | «Номер семь» без цепочки — задвижка изнутри; правило «физика вещей»; ассеты смотрит владелец до сборки дела; 700 кредитов на 3 дорожки                    |
+| 2026-11-13 | 16  | [Дверь номера 7: физика вещей](2026-11-13-16-room-seven-door-art.md)                         | M3 / арт             | Две картинки без цепочки, фурнитура поднята; 142 unit / 126 e2e, разметка и код прежние                                                                   |

diff --git a/CHANGELOG.md b/CHANGELOG.md
@@ -2,7 +2,7 @@
 
 ## 0.4.5 (versionCode 15) — 2026-11-13, физика вещей
 
-- «Номер семь» v3: цепочки на двери больше нет — дверь была заперта изнутри на задвижку, утром портье её выбил. Брифинг, подсказка Шефа и объяснение переозвучены (3 дорожки, 700 кредитов). Картинку номера и крупный план двери перерисует агент.
+- «Номер семь» v3: цепочки на двери больше нет — дверь была заперта изнутри на задвижку, утром портье её выбил. Брифинг, подсказка Шефа и объяснение переозвучены (3 дорожки, 700 кредитов). Картинка номера и крупный план двери перерисованы: цепочки нет, задвижка изнутри вырвана из косяка.
 - «Холодная камера» (библия): наблюдения вместо выводов у термографа, объяснено, почему Павел не позвонил; физика вещей для всех картинок.
 - Правила в CASE-RUNBOOK: «физика вещей» и новый порядок — ассеты агента проверяют планировщик и владелец глазами до сборки дела. MT-029.
 
